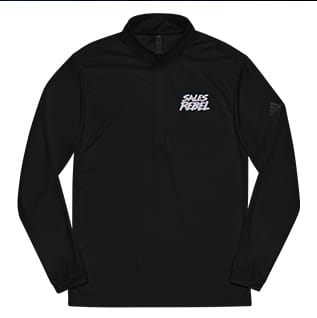
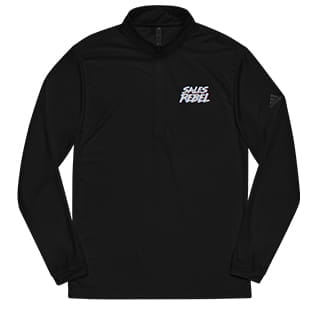
Resources - added merch

diff --git a/_layouts/pages/resources.html b/_layouts/pages/resources.html
@@ -167,6 +167,37 @@ layout: page
     </div>
 </section>
 
+{%- comment -%} --- MERCH --- {%- endcomment -%}
+<section class="section  resources__merch">
+    <div class="container">
+
+        <h2 class="resources__merch-heading">
+            {{- page.merch.heading -}}
+        </h2>
+
+        <div class="resources__merch-items resources__merch-items--desktop">
+            {%- for item in page.merch.images -%}
+                <div class="resources__merch-item">
+                    <a href="{{- item.url -}}" class="resources__merch-link">
+                        <img src="{{- item.path | relative_url -}}" alt="{{- item.alt_text -}}" class="resources__merch-img">
+                    </a>
+                </div>
+            {%- endfor -%}
+        </div>
+
+        <div class="resources__learn-items resources__learn-items--mobile slick-me-center">
+            {%- for item in page.merch.images -%}
+                <div class="resources__learn-item">
+                    <a href="{{- item.url -}}" class="resources__learn-link">
+                        <img src="{{- item.path | relative_url -}}" alt="{{- item.alt_text -}}" class="resources__learn-img resources__learn-img--{{ item.shadow_color }}">
+                    </a>
+                </div>
+            {%- endfor -%}
+        </div>
+
+    </div>
+</section>
+
 {%- comment -%} --- CTA --- {%- endcomment -%}
 {%- include cta.html cta=page.cta type="page" -%}
 

diff --git a/_sass/pages/resources.scss b/_sass/pages/resources.scss
@@ -380,5 +380,54 @@
 
     }
 
+    &__merch {
+
+        padding-top: 50px;
+
+        &-heading {
+            @include lazer;
+            text-align: center;
+            line-height: 1.3;
+            letter-spacing: 2px;
+            font-size: 40px;
+            margin-top: 0;
+        }
+
+        &-items {
+            display: flex;
+            justify-content: space-between;
+            flex-wrap: wrap;
+            &--desktop {
+                @include breakpoint(smallish) {
+                    display: none;
+                }
+            }
+            &--mobile {
+                display: none;
+                @include breakpoint(smallish) {
+                    display: block;
+                }
+            }
+        }
+
+        &-item {
+            flex-basis: 30%;
+            padding: 20px;
+            margin-bottom: 30px;
+        }
+
+        &-link {
+            transition: opacity .1s linear;
+            &:hover {
+                opacity: .7;
+            }
+        }
+
+        &-img {
+            box-shadow: 0 0 18px 4px #fff;
+        }
+
+    }
+
 
 }

diff --git a/pages/resources.md b/pages/resources.md
@@ -104,6 +104,18 @@ learn:
       alt_text: gem
       shadow_color: blue
       url: https://thesalesrebellion.teachable.com/p/rebelgem
+merch:
+  heading: Sales Rebel Merch…<br>Join the movement!
+  images:
+    - path: /images/merch/merch-1.jpg
+      alt_text: merch 1
+      url: www.store.thesalesrebellion.com
+    - path: /images/merch/merch-2.jpg
+      alt_text: merch 2
+      url: www.store.thesalesrebellion.com
+    - path: /images/merch/merch-3.jpg
+      alt_text: merch 3
+      url: www.store.thesalesrebellion.com
 footer:
   message: " Each time a man stands up for an ideal, or acts to improve a lot of others, or strikes out against injustice, he sends forth a tiny ripple of hope, and... those ripples build a current which can sweep down the mightiest walls of oppression."
   note: "- Robert F. Kennedy"
